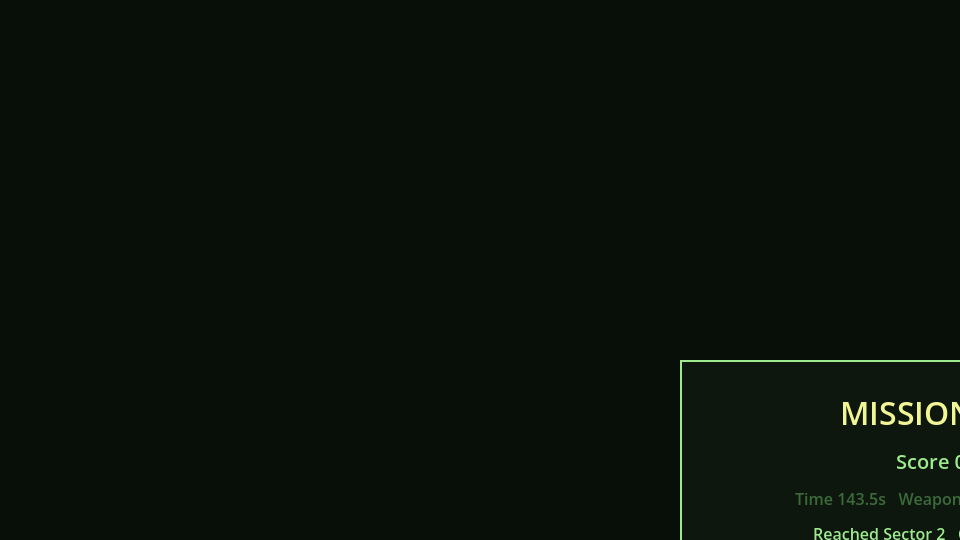
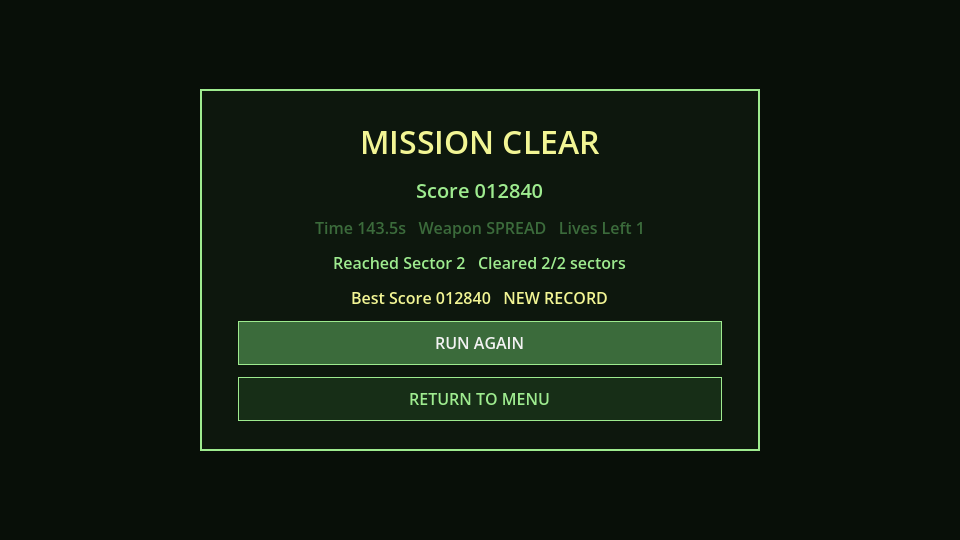
fix(game): polish playtest feedback and final presentation

diff --git a/docs/12_final_playtest_runbook.md b/docs/12_final_playtest_runbook.md
@@ -1,0 +1,74 @@
+# Final Playtest Runbook
+
+## 目标
+
+在发布前完成最后一轮人工试玩与记录，重点确认：
+
+- 菜单 -> 战斗 -> 结算全流程无断点
+- 手感、难度和反馈是否稳定
+- 暂停、最高分和重新开始流程是否正常
+- 音量、音色和提示强度是否主观可接受
+
+## 运行命令
+
+### Git Bash
+
+```bash
+cd "/d/workspace4Codex/space war"
+"/d/Development/Godot/Godot_v4.6.1-stable_win64.exe" --path .
+```
+
+### cmd
+
+```cmd
+cd /d D:\workspace4Codex\space war
+"D:\Development\Godot\Godot_v4.6.1-stable_win64.exe" --path .
+```
+
+## 建议试玩轮次
+
+至少完成 3 局：
+
+1. 正常推进，尽量尝试通关
+2. 主动多次暂停 / 继续 / 重开 / 回主菜单
+3. 故意承伤，验证残机、复活、失败结算与最高分更新
+
+## 每局需要观察的点
+
+- 主菜单显示的最高分和最近一局结果是否合理
+- 玩家移动、射击和拾取强化是否顺手
+- Sector 1 到 Sector 2 的难度抬升是否自然
+- Boss 警报、出场、受击和击破反馈是否清楚
+- 结算页的得分、历史最高分和按钮流程是否正确
+- 暂停菜单是否不会卡住流程
+- 音效是否过刺耳、过密或过轻
+
+## 建议记录模板
+
+可直接按下面格式补到 `docs/08_playtest_report.md`：
+
+```text
+试玩日期：
+试玩轮次：
+结果：通关 / 失败
+分数：
+最高分是否正确更新：是 / 否
+暂停流程是否正常：是 / 否
+主要问题：
+1.
+2.
+3.
+建议修正：
+1.
+2.
+3.
+```
+
+## 完成标准
+
+满足以下条件后，可以认为项目已适合做正式展示：
+
+- 至少完成 3 局人工试玩
+- 没有阻断流程的严重问题
+- 最高分、暂停、结算都已人工确认
+- 只剩少量主观打磨项，而不是结构性缺口

diff --git a/docs/08_playtest_report.md b/docs/08_playtest_report.md
@@ -32,6 +32,15 @@
 - 战斗节奏比阶段 1 和阶段 2 更稳，反馈更明确。
 - 程序化音效让发射、受击、拾取、Boss 警报和结算都有最低限度的听觉区分。
 
+### 人工试玩反馈（2026-04-11）
+
+- 首次人工试玩发现主菜单面板曾错误偏到右下角，导致初次进入流程受阻；该问题已修正为真正的居中布局。
+- 玩家反馈原先飞船前进空间过小，只能停留在左侧约三分之一区域；当前已放宽为接近全屏安全边界，并以顶部 / 底部 HUD 作为垂直活动边界。
+- 玩家反馈武器升级更适合由击毁敌机数量触发；当前已改为“击毁累计保底 + 随机补偿掉落”的混合方案。
+- 玩家反馈敌我子弹区分仍不够明确；当前已改为更长更亮的玩家弹体与更大、更亮、带脉冲感的敌弹组合。
+- 玩家反馈暂停时敌机仍会移动；当前已修正为战斗节点进入真正的可暂停模式，暂停后敌机、Boss、子弹与背景滚动都会停止。
+- 为了提升完成版观感，Boss 出场前预警提示、暂停菜单焦点稳定性，以及射击 / 受击音量舒适度也已做一轮小幅优化。
+
 ### 风险 / 观察项
 
 - 目前缺少真实人工试玩记录，手感与难度仍不能只靠自动运行完全确认。
@@ -49,4 +58,3 @@
 ## 当前结论
 
 项目已经达到“可继续维护或展示的复刻项目”状态，但要称为完全收口，仍建议补一轮人工试玩确认与小幅平衡微调。
-

diff --git a/docs/03_gameplay_spec.md b/docs/03_gameplay_spec.md
@@ -4,7 +4,7 @@
 
 - 玩家操控单一飞船。
 - 支持上下与横向移动。
-- 屏幕内可活动范围先不在阶段 0 定死，阶段 1 开始前根据原版参考录像校准到更接近初代体感的范围。
+- 当前版本允许飞船移动到接近屏幕四角的安全边界，但顶部 HUD 与底部信息栏仍作为活动边界。
 - 默认拥有基础射击能力。
 
 ## 战斗行为
@@ -48,6 +48,13 @@
 - `overdrive`：限时提升射速、移动速度，并追加更强中心火力。
 
 这些强化都仍然只作用于当前局内，不引入关卡外成长。
+
+当前版本的掉落节奏调整为：
+
+- 每击毁一定数量敌机会保证掉落一次火力升级。
+- 若武器已满级，保底火力掉落会转为修复奖励。
+- 额外存在低概率随机掉落，用于补充 `repair` / `overdrive` / 偶发武器奖励。
+- 仍保留少量关卡编排内的固定拾取，用于稳定节奏节点。
 
 ## Boss 设计原则
 
